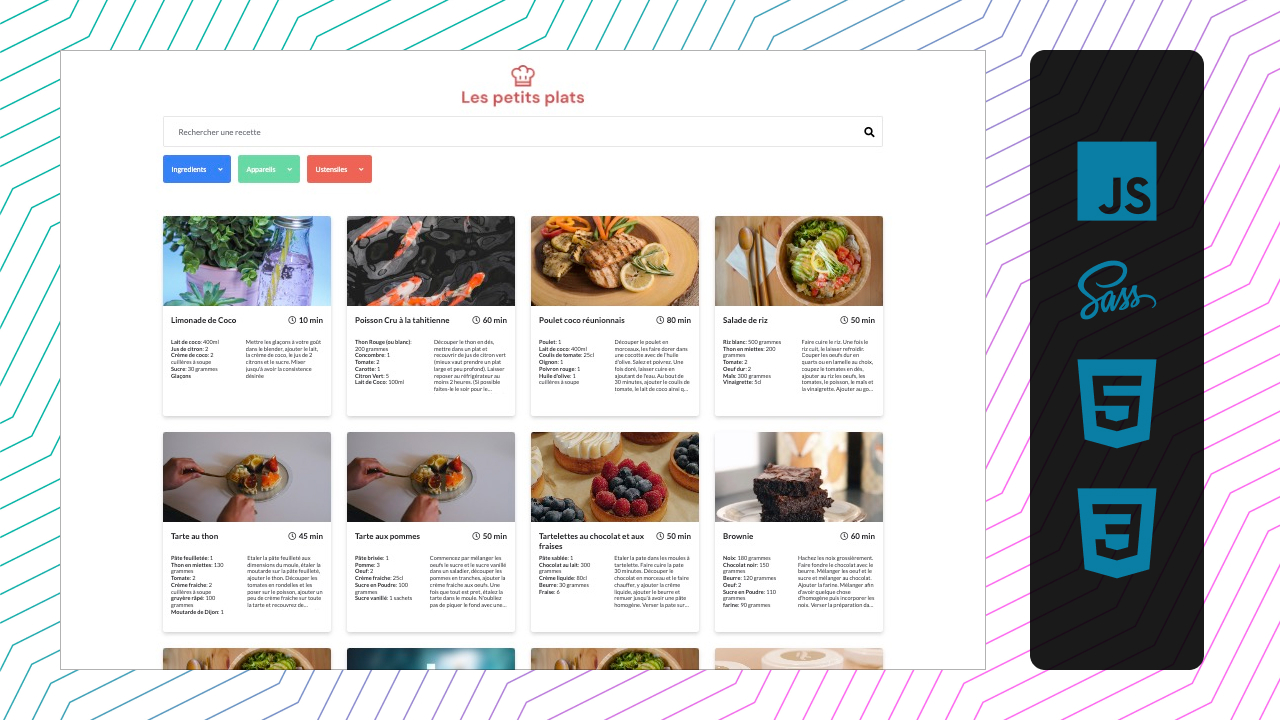
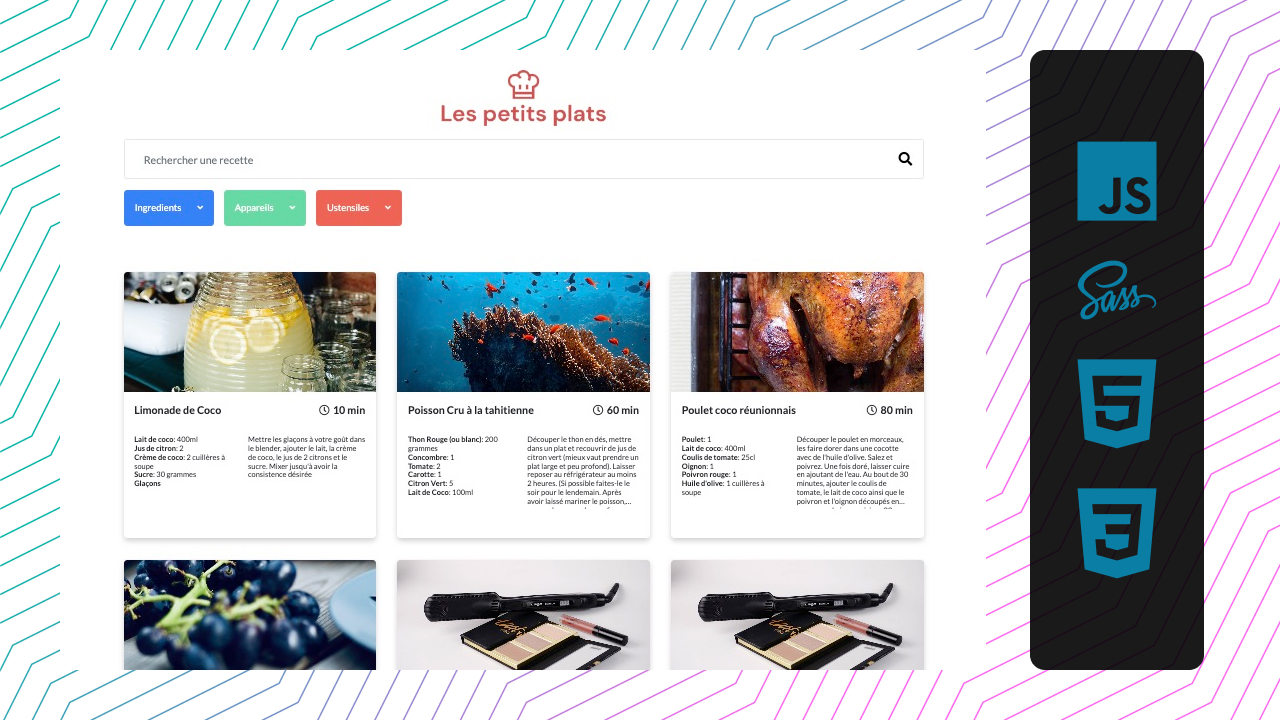
Update page container width + Update screenshot image

diff --git a/css/scss/partials/_layout.scss b/css/scss/partials/_layout.scss
@@ -4,7 +4,7 @@
 // Page container
 .page-container {
   width: 100%;
-  max-width: 1440px;
+  max-width: 1200px;
   margin: 0 auto;
 }
 
@@ -85,7 +85,7 @@
 //Recipe grid
 #grid {
   margin-top: 4em;
-  max-width: 1440px;
+  max-width: 1200px;
   position: absolute;
   top: 270px;
   display: grid;

diff --git a/css/style.css b/css/style.css
@@ -183,7 +183,7 @@ body {
 
 .page-container {
   width: 100%;
-  max-width: 1440px;
+  max-width: 1200px;
   margin: 0 auto;
 }
 
@@ -251,7 +251,7 @@ body {
 
 #grid {
   margin-top: 4em;
-  max-width: 1440px;
+  max-width: 1200px;
   position: absolute;
   top: 270px;
   display: grid;
